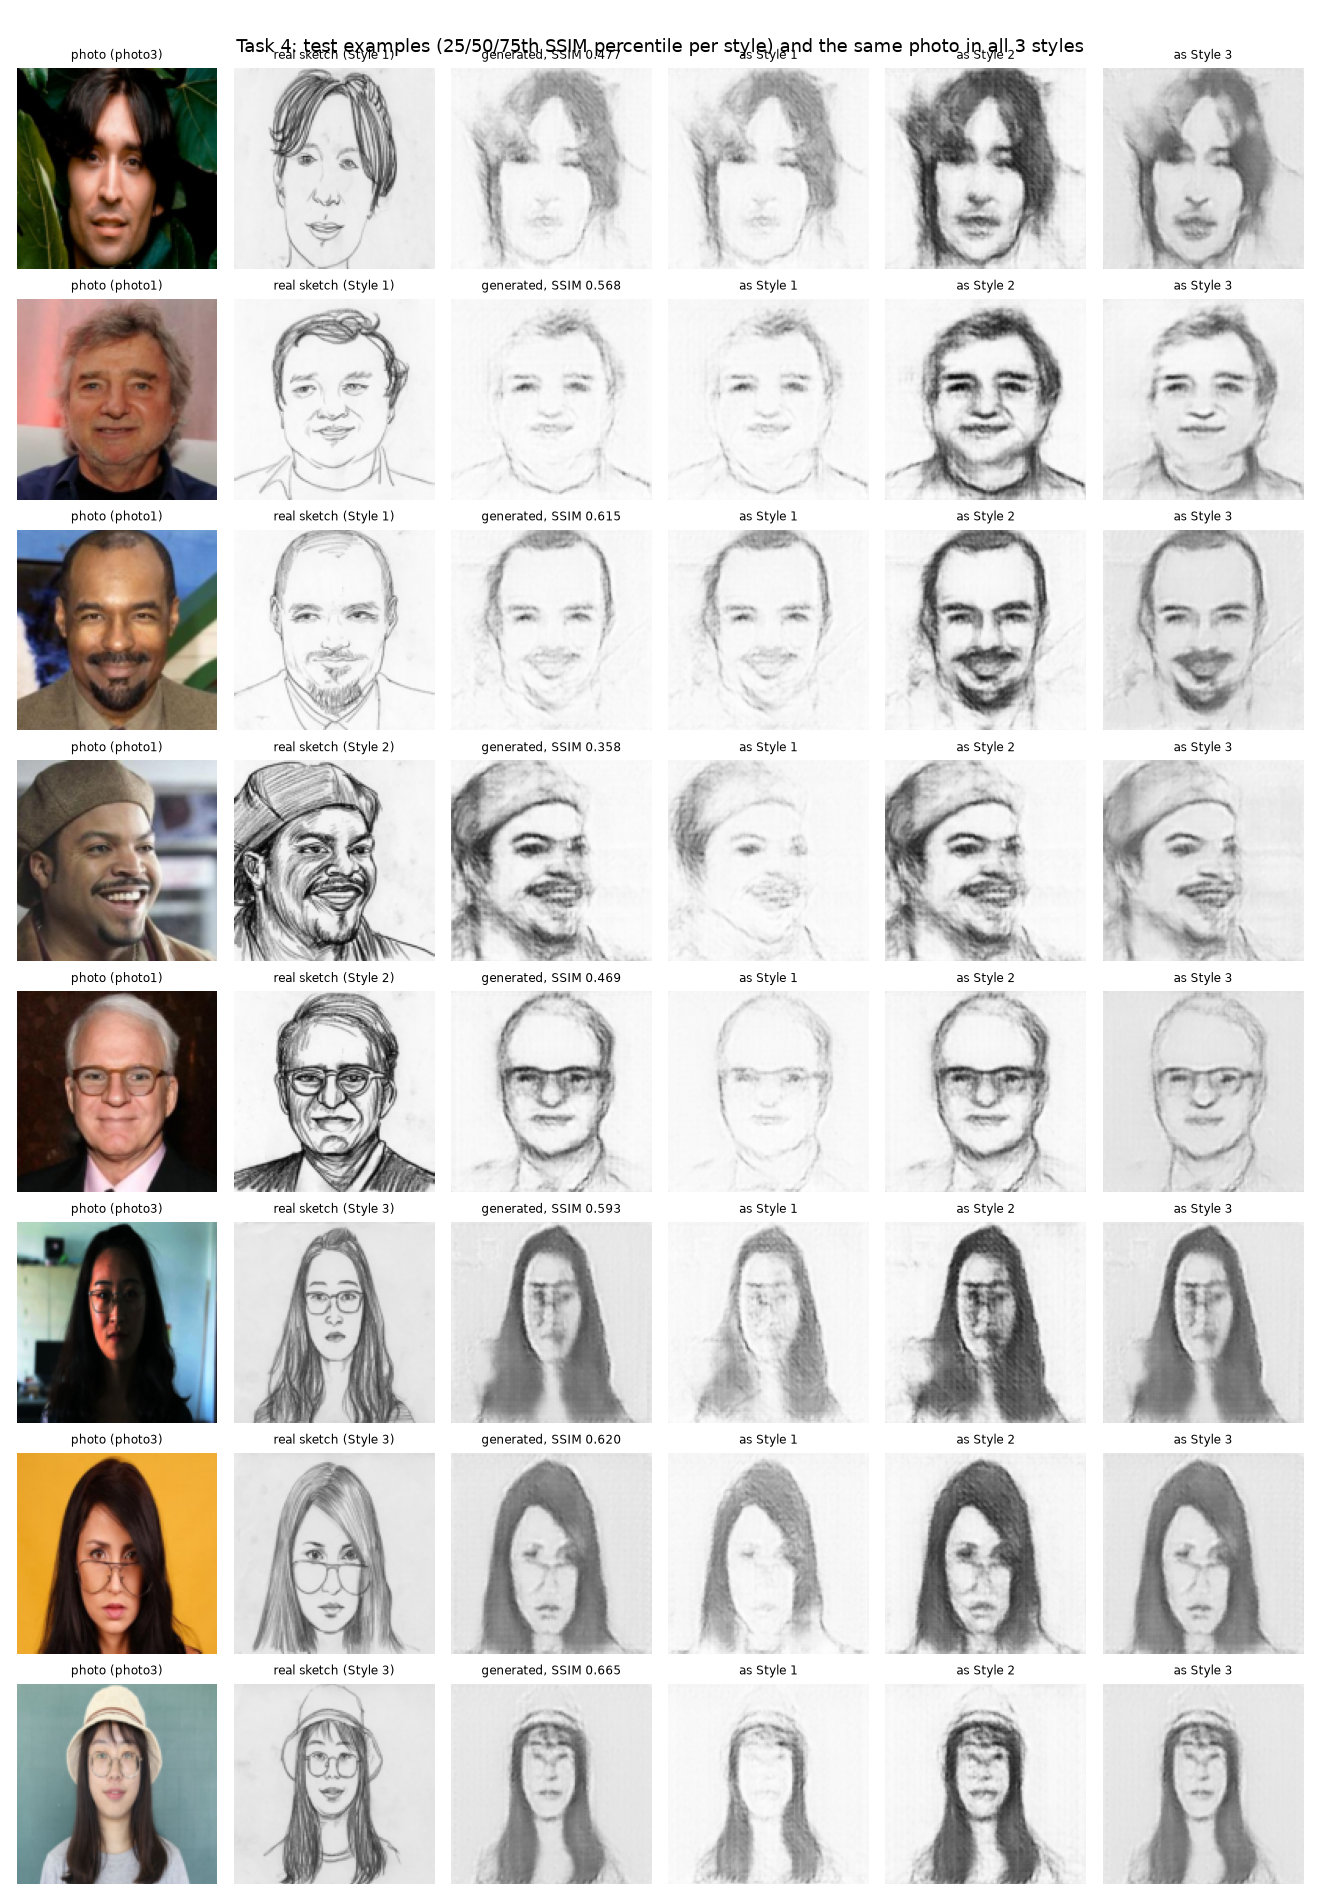
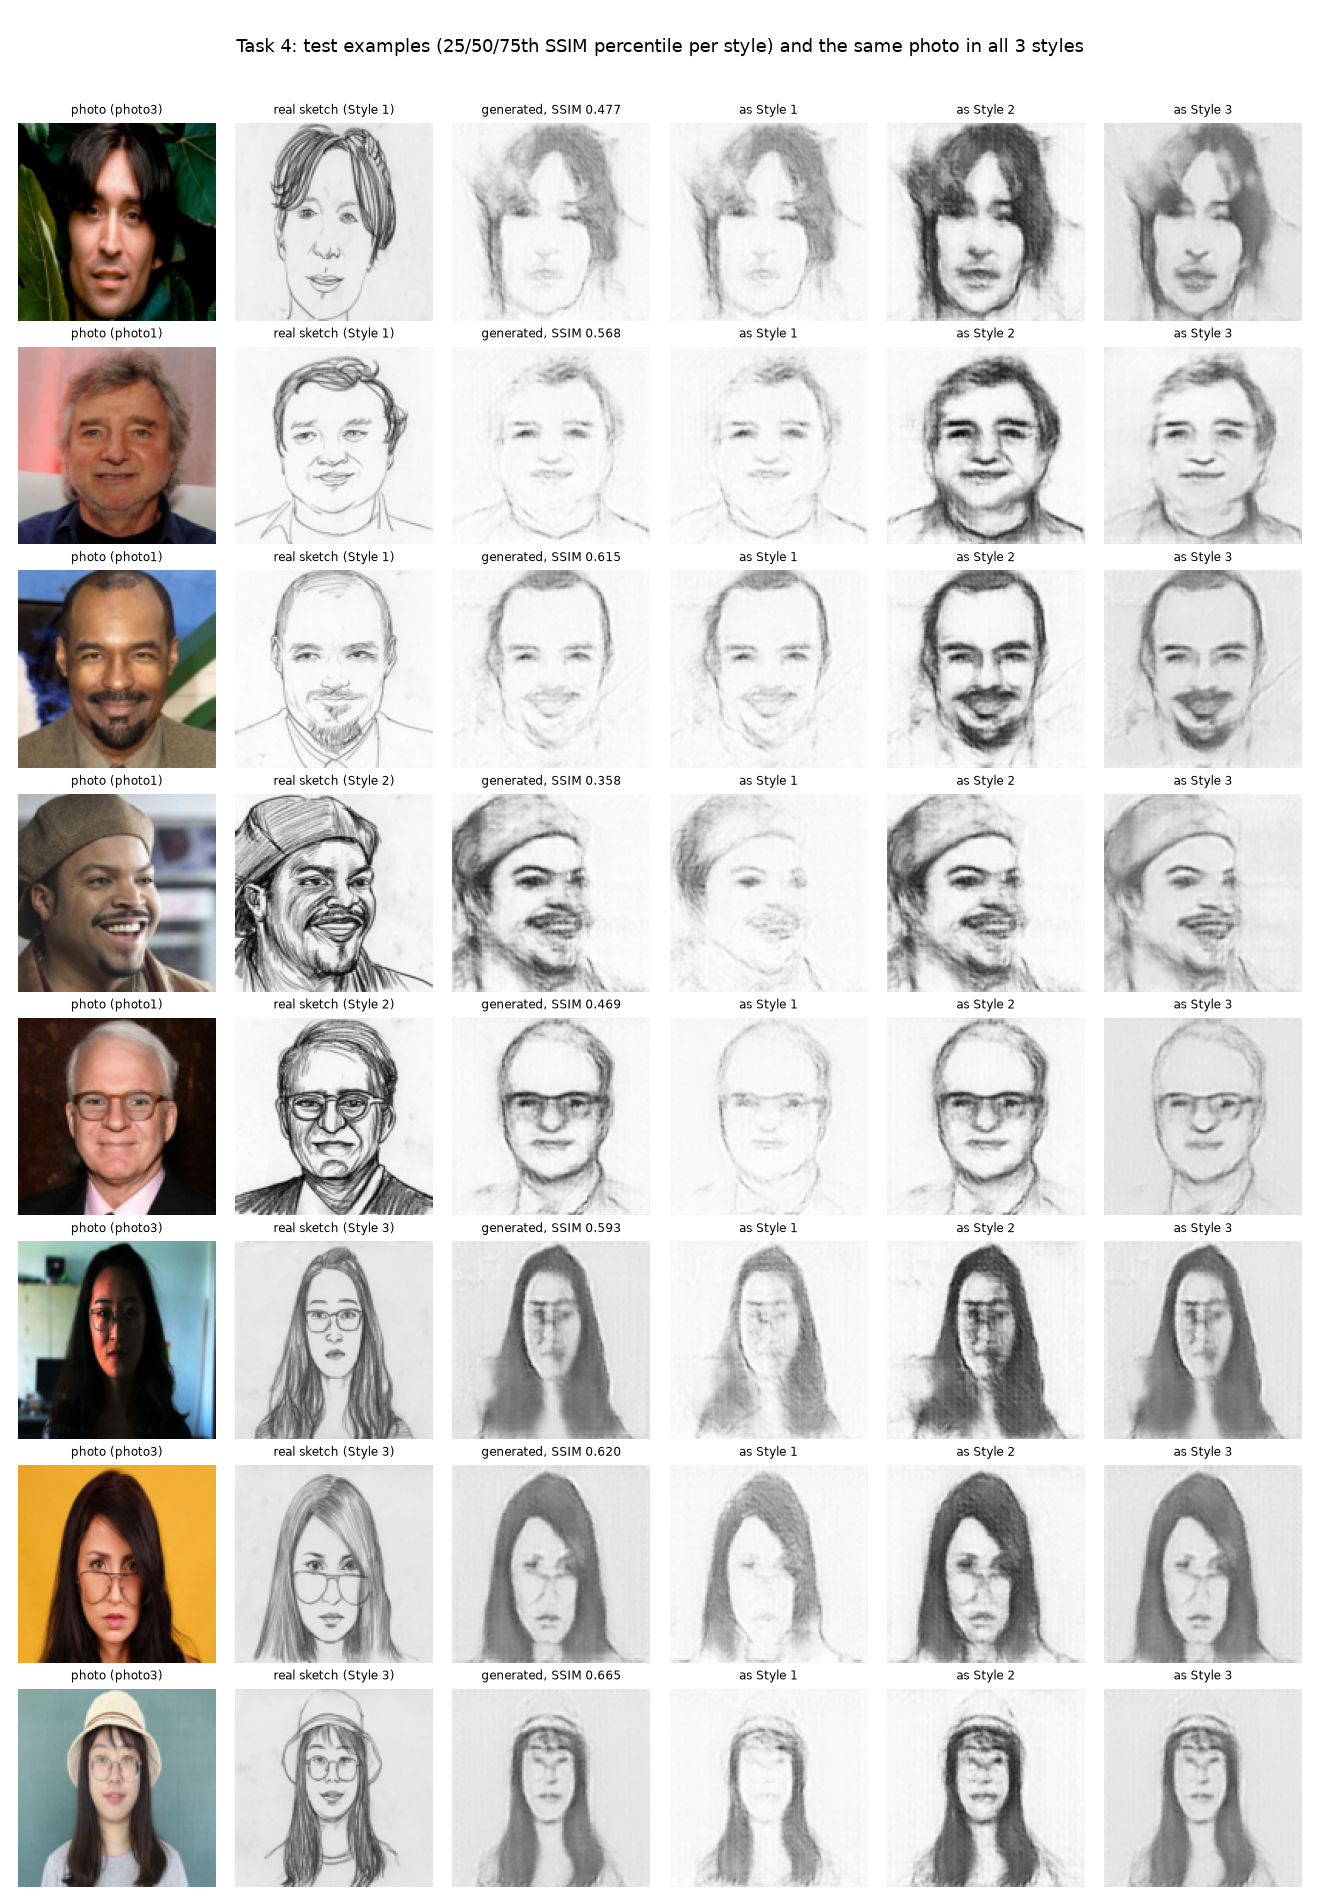
Phase 7: report material index, Task 4 figure fix, progress and AI-use log

diff --git a/scripts/evaluate_task4.py b/scripts/evaluate_task4.py
@@ -87,7 +87,7 @@ def draw(indices, df, g, device, photos, sketches, styles, title, path):
             axes[row, j].set_title(label, fontsize=8)
             axes[row, j].axis("off")
     fig.suptitle(title)
-    fig.tight_layout()
+    fig.tight_layout(rect=(0, 0, 1, 0.97))   # leave room for the title above the first row
     fig.savefig(path, dpi=110)
     plt.close(fig)
 
@@ -97,19 +97,24 @@ def main():
     ap.add_argument("--force", action="store_true")
     ap.add_argument("--dry-run", action="store_true", help="evaluate on the VALIDATION pairs instead of test")
     ap.add_argument("--checkpoint", default=str(C.CHECKPOINTS / "task4_generator.pt"))
+    ap.add_argument("--figures-only", action="store_true",
+                    help="redraw the figures from the saved per-image results (no re-evaluation)")
     args = ap.parse_args()
     out_dir = C.ARTIFACTS / "logs" / "dryrun" if args.dry_run else C.RESULTS
     fig_dir = out_dir if args.dry_run else C.FIGURES
     out_dir.mkdir(parents=True, exist_ok=True)
     per_image = out_dir / f"{PREFIX}_test_per_image.csv"
-    if per_image.exists() and not (args.force or args.dry_run):
+    if per_image.exists() and not (args.force or args.dry_run or args.figures_only):
         sys.exit(f"{per_image} exists: the test set was already evaluated. Use --force to re-run.")
 
     device = get_device()
     g = load_generator(args.checkpoint).to(device)
     records, photos, sketches, styles = load_split_tensors("val" if args.dry_run else "test")
-    df = evaluate(g, device, records, photos, sketches, styles)
-    df.to_csv(per_image, index=False)
+    if args.figures_only:
+        df = pd.read_csv(per_image)
+    else:
+        df = evaluate(g, device, records, photos, sketches, styles)
+        df.to_csv(per_image, index=False)
     table = summaries(df)
     table.to_csv(out_dir / f"{PREFIX}_test_summary.csv", index=False)
     (out_dir / f"{PREFIX}_test_table.tex").write_text(latex(table))
@@ -130,7 +135,7 @@ def main():
 
     pd.set_option("display.width", 200)
     print(table.round(4).to_string(index=False))
-    if args.dry_run:
+    if args.dry_run or args.figures_only:
         return
     setup_mlflow("task4-face-to-sketch")
     with mlflow.start_run(run_name="test-evaluation"):

diff --git a/docs/report_material.md b/docs/report_material.md
@@ -1,0 +1,77 @@
+# Report material index
+
+Everything below comes from logged runs (MLflow experiments `task1-universal-ae`, `task2-hard-routing`, `task3-soft-moe`, `task4-face-to-sketch`). Design decisions and their reasons are in `docs/explanation.md` (sections 13-20); the API in `docs/api_contract.md`. The PDF requires every figure and table to be interpreted in the text: the "Say" column gives the main point of each one.
+
+## Data and corruptions (all tasks)
+
+| Item | File | Say |
+|---|---|---|
+| Corruption examples (test severities + runtime training samples) | `docs/figures/corruption_grid.png` | The exact corruption definitions; low/medium/high test levels |
+| Dataset facts, splits | `docs/dataset_findings.md` | Pet 2,944 / 736 / 3,669; FS2K 899 / 159 / 1,046; style confound in FS2K |
+| Test manifest | `artifacts/manifests/test_manifest.json` | 36,690 deterministic test inputs (clean + 3 corruptions x 3 levels) |
+
+## Task 1: Universal Restoration
+
+| Item | File | Say |
+|---|---|---|
+| Optuna search space, trials, best trial | `artifacts/results/task1_optuna_summary.json`, `task1_optuna_trials.csv` | 30 trials: 16 completed, 14 pruned, 0 failed; best #24 |
+| Optuna plots | `docs/figures/task1_optuna_history.png`, `task1_optuna_importance.png` | Dropout most important (0.75); best at the top of the size range |
+| Training curves | `docs/figures/task1_curves.png` | Converged by ~epoch 90, no overfitting; occlusion hardest |
+| Results table (per corruption x severity, input vs output) | `artifacts/results/task1_test_table.tex` | Corrupted inputs 19.71 -> 25.55 dB, SSIM 0.639 -> 0.806; quality ceiling ~27 dB |
+| 12 examples + error maps | `docs/figures/task1_examples.png` | Median-SSIM example of each group (not cherry-picked) |
+| 4 failure cases | `docs/figures/task1_failures.png` | Dark backgrounds brightened, heavy blur on texture, large occluder hides an object |
+
+## Task 2: Hard-Routed Restoration
+
+| Item | File | Say |
+|---|---|---|
+| Classifier Optuna | `artifacts/results/task2_classifier_optuna_summary.json`, `docs/figures/task2_classifier_optuna_*.png` | 25 trials: 7 completed, 18 pruned, 0 failed |
+| Specialist Optuna (shared search) | `artifacts/results/task2_specialists_optuna_summary.json`, `docs/figures/task2_specialists_optuna_*.png` | 20 trials: 10 completed, 10 pruned, 0 failed |
+| Curves | `docs/figures/task2_classifier_curves.png`, `task2_specialists_curves.png` | Classifier val acc 99.73%; specialists converge |
+| Classifier metrics | `artifacts/results/task2_classifier_metrics.json` | Test acc 99.83%, macro P/R/F1 0.998/0.997/0.997 |
+| Normalized confusion matrix | `docs/figures/task2_confusion_matrix.png` | Only 63 / 36,690 misrouted; clean -> blur is the main error |
+| Oracle vs predicted vs Task 1 | `artifacts/results/task2_comparison_table.tex` (+ `task2_oracle_table.tex`, `task2_predicted_table.tex`) | Oracle ~= predicted; gain over Task 1 comes from the identity bypass on clean images |
+| Misrouting analysis | `artifacts/results/task2_misrouting.json`, `docs/figures/task2_misrouted.png` | Soft clean photos -> blur expert (colour shift); black backgrounds -> occlusion; low occlusion -> identity helps |
+| Examples | `docs/figures/task2_examples.png` | Probabilities, route, output per group |
+
+## Task 3: Soft Mixture-of-Experts Restoration
+
+| Item | File | Say |
+|---|---|---|
+| Optuna | `artifacts/results/task3_optuna_summary.json`, `docs/figures/task3_optuna_*.png` | 20 trials: 16 completed, 4 pruned, 0 failed; best = high T, tiny cls/balance weights |
+| Training curves (warm-up -> joint) | `docs/figures/task3_curves.png` | Val score 0.0860 (Task 2 init) -> 0.0702; gate accuracy falls as it learns to blend |
+| Comparison with Tasks 1 and 2 | `artifacts/results/task3_comparison_table.tex` | Corrupted SSIM 0.806 / 0.808 / 0.845; low blur 26.3 -> 33.1 dB |
+| Routing heatmap + weight distribution | `docs/figures/task3_routing_heatmap.png`, `artifacts/results/task3_routing_weights.csv` | Identity weight grows as damage gets milder; salt -> salt expert |
+| Dominant vs distributed examples | `docs/figures/task3_dominant_vs_distributed.png` | One expert vs blended weights |
+| Expert health | `artifacts/results/task3_expert_health.json` | No inactive expert; identity's use on corrupted inputs is beneficial blending |
+| Re-check of Task 2's misrouted inputs | `artifacts/results/task3_task2_misrouted_recheck.json` | Better on 95%; SSIM 0.891 -> 0.974 |
+| Examples / failures | `docs/figures/task3_examples.png`, `task3_failures.png` | |
+
+## Task 4: Face-to-Sketch Generator
+
+| Item | File | Say |
+|---|---|---|
+| Optuna | `artifacts/results/task4_optuna_summary.json`, `docs/figures/task4_optuna_*.png` | 20 trials: 19 completed, 1 pruned, 0 failed; best generator = base 64 |
+| Losses (D real, D fake, G adv, G L1) + val SSIM per style | `docs/figures/task4_curves.png`, `artifacts/results/task4_history.csv` | Losses logged separately; best val at epoch 55 |
+| Fixed validation samples over time | MLflow `task4-face-to-sketch` -> run `final-train` -> `samples/epoch_*.png` | Same 6 validation photos every 10 epochs |
+| Test table (per style and photo source) | `artifacts/results/task4_test_table.tex` | SSIM 0.498, L1 0.099; style 2 hardest; confound by photo source |
+| Same photo in all 3 styles | `docs/figures/task4_examples.png` | Style embedding clearly changes the sketch (style effect 0.11) |
+| Failures | `docs/figures/task4_failures.png` | |
+
+## ONNX and application
+
+| Item | File | Say |
+|---|---|---|
+| ONNX sizes | `artifacts/results/onnx_sizes.csv` | 7 models; the Task 3 file contains the whole mixture pipeline as one graph |
+| ONNX vs PyTorch | `artifacts/results/onnx_verification.csv` | All pass; max abs diff <= 2.3e-5 on real images |
+| SSIM implementation check | `artifacts/results/ssim_check.json` | Matches scikit-image (max diff 1.9e-5) |
+| Timing benchmark | `artifacts/results/benchmark_epoch.json` | Basis of the training time estimates |
+| API | `docs/api_contract.md` | Endpoints, fields, error codes |
+| Architecture of the app | `docker-compose.yml`, `README.md` | Browser -> nginx (React) -> /api -> FastAPI -> ONNX Runtime (CPU); models mounted read-only |
+
+## Still to produce (student)
+
+- App screenshots of the four workspaces (http://localhost:8080 after `docker compose up`).
+- Google Stitch screens as design evidence (`Stitch Screens/`).
+- Architecture diagrams (autoencoder, classifier, soft-MoE, U-Net + PatchGAN).
+- MLflow screenshots (experiment list, an Optuna parent run with nested trials, the Task 4 sample images).

diff --git a/docs/ai_use_log.md b/docs/ai_use_log.md
@@ -13,3 +13,4 @@ Running record for the report's AI-use appendix: what AI generated, and how it w
 | 2026-10-04 | Claude Code (Claude Opus 5.5) | **Frontend, first 7 screens** (React 19 + Vite 8 + Tailwind 4, `frontend/`): landing page, Universal Restoration and Hard-Routed Restoration (input / processing / result), shared components (TopBar, Sidebar, PageHeader, UploadPanel, CorruptionPanel, ImagePanel, ProgressStatus, ResultStrip, RoutingBars), API module with mock mode, `docs/api_contract.md`; backend additions (`POST /api/corrupt`, server-side error maps only when a clean reference exists); 16 Pet test samples; landing card images generated by our own ONNX models (`scripts/make_landing_assets.py`) | Built from the student's Google Stitch screens (colours sampled from the landing PNG; fake labels in the screenshots ignored as instructed). Verified end to end with headless Edge driven over the DevTools protocol against the real backend: sample -> apply corruption -> restore -> result for both workspaces, the "already corrupted" path (no error map), mock mode badge, and backend-offline status. Fixed after visual comparison: hero margin, footer below the fold, wrapped sidebar tab name, oversized image panels, a 4 px panel misalignment, a dimmed-but-active Restore button. 8 backend API tests (incl. "no error map without a clean reference"). No fake numbers: progress is indeterminate with real elapsed time; landing weights are the real gate weights for the shown image. *To do (student): compare the screens with Stitch.* |
 | 2026-10-04 | Claude Code (Claude Opus 5.5) | **Frontend, last 2 workspaces + landing rework:** Soft Mixture-of-Experts (weights bars, top contributors, gate routing diagram with line thickness = weight, restored/error-map switch) and Face-to-Sketch Generator (upload or webcam capture, Style 1/2/3 default 1, centre-crop option, side-by-side result, Download sketch); landing page uses the Stitch illustrations and fits one landscape screen; backend `top_contributors` (weight >= 0.10) added and documented in `docs/api_contract.md` | Driven end to end in headless Edge: Soft-MoE against the real backend (medium blur -> Blur 51% / Identity 48.5%, matching the Task 3 test analysis); Face-to-Sketch in mock mode with Edge's fake camera (capture -> style 3 -> generate -> download button fully visible) and with camera permission denied (clear message); real backend answers 503 "task4_generator not loaded" until Task 4 is exported. Landing measured with no scroll at 1920x960, 1536x730, 1366x650. Navigation script: 36/36 link checks pass (landing cards, top bar, sidebar on every page, wordmark). My own test-script bug (shell ate a regex backslash) produced false FAILs at first; fixed by matching links by href. |
 | 2026-10-04 | Claude Code (Claude Opus 5.5) | **Phase 5 (Task 4):** style-conditioned pix2pix cGAN (`src/models/cgan.py`: U-Net generator + PatchGAN, learned style embedding in both), training loop with separately logged D-real / D-fake / G-adv / G-L1 losses (`src/gan_training.py`), Optuna/train/evaluate scripts, two-input ONNX export | CPU unit tests (shapes; style embedding changes both G and D outputs); GPU smoke study before the real one; generator size first capped for the 50 MB rule, then uncapped after the student's decision (Optuna then chose the largest, base 64). Checkpoint chosen on validation (epoch 55); test evaluated once; ONNX verified on 48 real FS2K validation photos (max diff 7.2e-7). Backend restarted and real sketches generated for all 3 styles (~12 ms each). *To do (student): look at task4_examples.png / task4_failures.png and the MLflow sample images.* |
+| 2026-10-04 | Claude Code (Claude Opus 5.5) | **Phase 7:** backend and frontend Dockerfiles, nginx config, allow-list `.dockerignore` files, `docker-compose.yml`, README (one-command start, model download from the GitHub Release, reproduction steps, attribution), report material index, Task 4 figure title fix | Docker safety rules followed: `docker info`, disk and `docker system df` before/after (build cache 0 -> 842 MB, images +1.06 GB), pinned base images verified to exist, contexts checked (349 kB / 1.08 MB), builds with a 10-minute limit; both builds passed first time. Tested through the nginx proxy: health 7/7, all four endpoints, upload validation (415/400/200), SPA deep links; browser navigation 36/36. Fresh-clone test from GitHub following the README (model download, `docker compose up --build`): healthy, 7/7 models, navigation 36/36, a real hard-routing run. |

diff --git a/PROGRESS.md b/PROGRESS.md
@@ -64,11 +64,18 @@ Resume guide: read `CLAUDE.md`, then `docs/explanation.md`, then `docs/implement
   - ONNX `task4_generator.onnx` 167.9 MB, verified (7.2e-7), LOCAL ONLY (needs a download link before submission).
   - All 7 models load in the backend (health "ok"); Face-to-Sketch workspace works for real.
 
+- **Phase 7, Docker + README (2026-10-04)**
+  - `docker-compose.yml`: backend (python:3.11.13-slim-bookworm, CPU onnxruntime, non-root) + frontend (node:22.19.0-alpine build -> nginx:1.29.1-alpine, /api proxied to backend:8000). Models mounted read-only. App: http://localhost:8080.
+  - Images: backend 448 MB, frontend 82 MB. Docker usage: build cache 842 MB, images 2.77 GB (incl. the user's own n8n image).
+  - Fresh clone from GitHub + README steps -> healthy, 7/7 models, 36/36 navigation checks.
+  - Large model `task4_generator.onnx` is a GitHub Release asset (models-v1); README has the download command; /api/health points to it if missing.
+  - `docs/report_material.md` indexes every figure/table per task.
+
 ## In progress
-- Nothing running on the GPU.
+- Nothing running. The app runs in Docker at http://localhost:8080 (`docker compose down` to stop).
 
 ## Next
-- Phase 7: Docker Compose (backend + frontend), fresh-clone test, README (incl. download link for task4_generator.onnx), report material.
+- Student: report (IEEE LaTeX), demo video (5-7 min), AI-use appendix (from docs/ai_use_log.md), app/MLflow screenshots, confirm the deadline.
 - `Stitch Screens/` folder still uncommitted (move to docs/stitch/?).
 - Planned upgrades: see `docs/planned_upgrades.md`.
 
